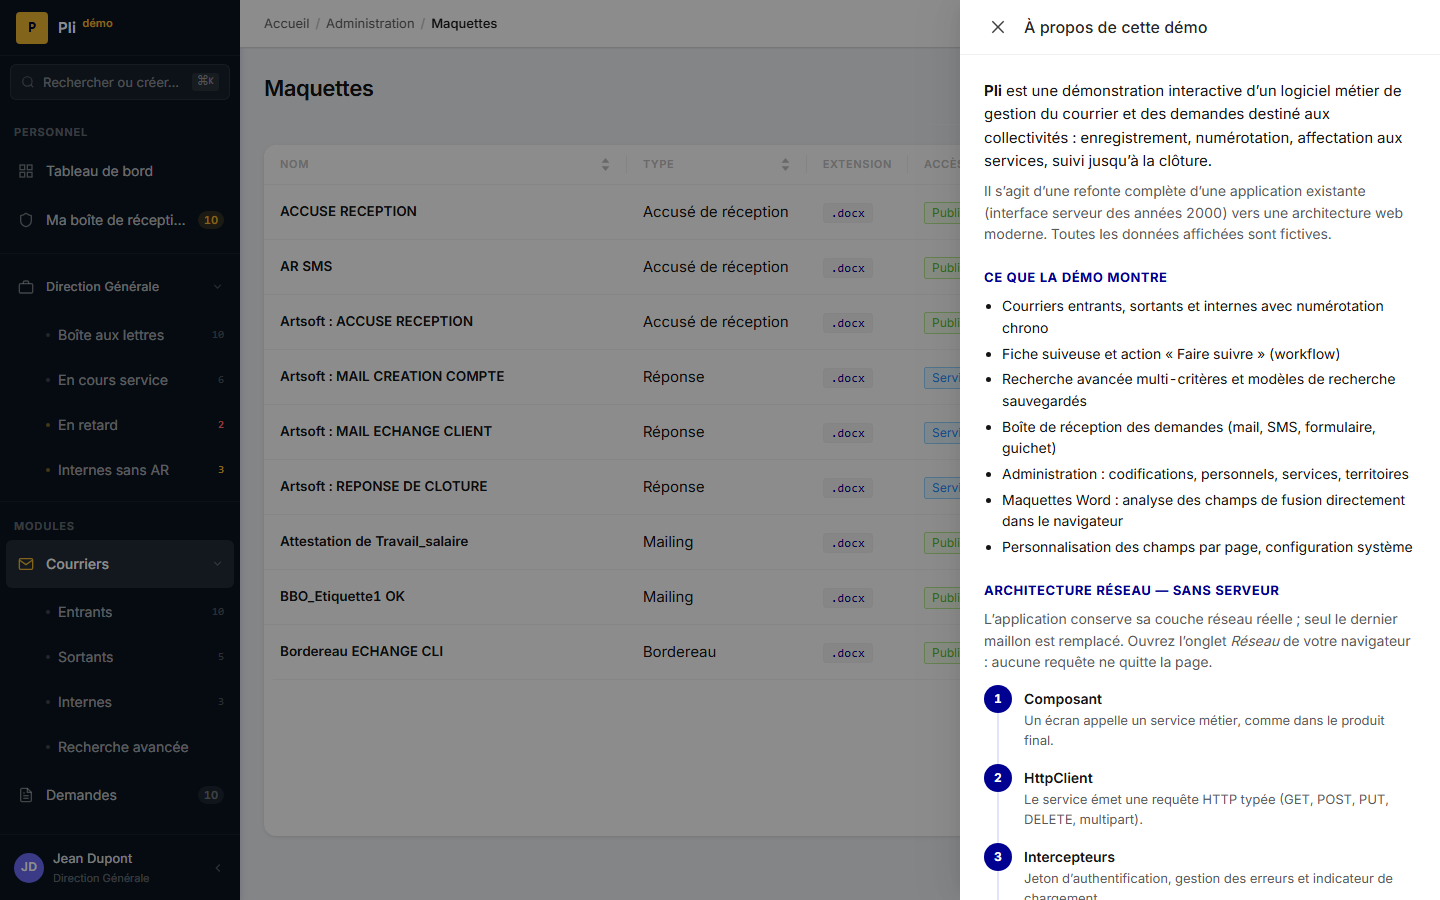
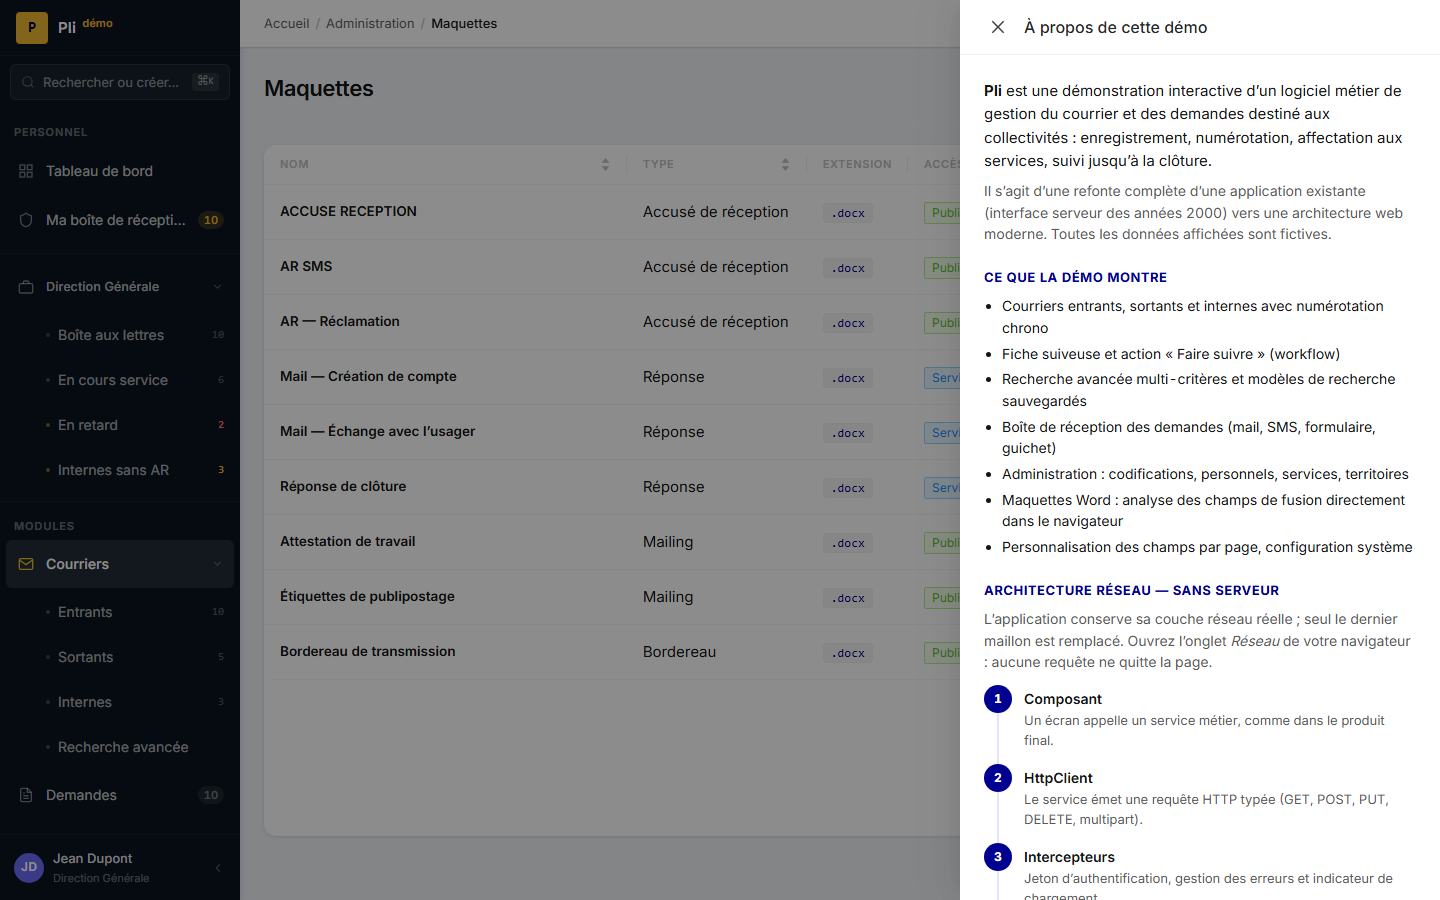
fix: neutralise legacy template names in seed data, refresh screenshots

diff --git a/src/mocks/handlers/administration.handlers.ts b/src/mocks/handlers/administration.handlers.ts
@@ -8,13 +8,13 @@ import { API_BASE as BASE } from '../mock-origin';
 const maquettes = db.collection('maquettes', [
   { id: 1, nom: 'ACCUSE RECEPTION',              type: 'AR',  extension: '.docx', acces: 'PUBLIC',  serviceNom: null, personnelNom: null, fileUrl: `${BASE}/maquettes/1/download` },
   { id: 2, nom: 'AR SMS',                         type: 'AR',  extension: '.docx', acces: 'PUBLIC',  serviceNom: null, personnelNom: null, fileUrl: `${BASE}/maquettes/2/download` },
-  { id: 3, nom: 'Artsoft : ACCUSE RECEPTION',     type: 'AR',  extension: '.docx', acces: 'PUBLIC',  serviceNom: null, personnelNom: null, fileUrl: `${BASE}/maquettes/3/download` },
-  { id: 4, nom: 'Artsoft : MAIL CREATION COMPTE', type: 'REP', extension: '.docx', acces: 'SERVICE', serviceNom: 'Direction de la Demande', personnelNom: null, fileUrl: `${BASE}/maquettes/4/download` },
-  { id: 5, nom: 'Artsoft : MAIL ECHANGE CLIENT',  type: 'REP', extension: '.docx', acces: 'SERVICE', serviceNom: 'Direction de la Demande', personnelNom: null, fileUrl: `${BASE}/maquettes/5/download` },
-  { id: 6, nom: 'Artsoft : REPONSE DE CLOTURE',   type: 'REP', extension: '.docx', acces: 'SERVICE', serviceNom: 'Direction de la Demande', personnelNom: null, fileUrl: `${BASE}/maquettes/6/download` },
-  { id: 7, nom: 'Attestation de Travail_salaire',  type: 'ML',  extension: '.docx', acces: 'PUBLIC',  serviceNom: null, personnelNom: null, fileUrl: `${BASE}/maquettes/7/download` },
-  { id: 8, nom: 'BBO_Etiquette1 OK',               type: 'ML',  extension: '.docx', acces: 'PUBLIC',  serviceNom: null, personnelNom: null, fileUrl: `${BASE}/maquettes/8/download` },
-  { id: 9, nom: 'Bordereau ECHANGE CLI',            type: 'BOR', extension: '.docx', acces: 'PUBLIC',  serviceNom: null, personnelNom: null, fileUrl: `${BASE}/maquettes/9/download` },
+  { id: 3, nom: 'AR — Réclamation',              type: 'AR',  extension: '.docx', acces: 'PUBLIC',  serviceNom: null, personnelNom: null, fileUrl: `${BASE}/maquettes/3/download` },
+  { id: 4, nom: 'Mail — Création de compte',      type: 'REP', extension: '.docx', acces: 'SERVICE', serviceNom: 'Direction de la Demande', personnelNom: null, fileUrl: `${BASE}/maquettes/4/download` },
+  { id: 5, nom: 'Mail — Échange avec l’usager',  type: 'REP', extension: '.docx', acces: 'SERVICE', serviceNom: 'Direction de la Demande', personnelNom: null, fileUrl: `${BASE}/maquettes/5/download` },
+  { id: 6, nom: 'Réponse de clôture',            type: 'REP', extension: '.docx', acces: 'SERVICE', serviceNom: 'Direction de la Demande', personnelNom: null, fileUrl: `${BASE}/maquettes/6/download` },
+  { id: 7, nom: 'Attestation de travail',          type: 'ML',  extension: '.docx', acces: 'PUBLIC',  serviceNom: null, personnelNom: null, fileUrl: `${BASE}/maquettes/7/download` },
+  { id: 8, nom: 'Étiquettes de publipostage',      type: 'ML',  extension: '.docx', acces: 'PUBLIC',  serviceNom: null, personnelNom: null, fileUrl: `${BASE}/maquettes/8/download` },
+  { id: 9, nom: 'Bordereau de transmission',       type: 'BOR', extension: '.docx', acces: 'PUBLIC',  serviceNom: null, personnelNom: null, fileUrl: `${BASE}/maquettes/9/download` },
 ]);
 
 const maintenanceLogs = db.collection('maintenance-logs', [

diff --git a/src/mocks/db.ts b/src/mocks/db.ts
@@ -9,7 +9,7 @@
  */
 const STORAGE_KEY = 'pli_demo_db';
 /** Bump when seed shapes change so stale snapshots are discarded. */
-const SCHEMA_VERSION = 1;
+const SCHEMA_VERSION = 2;
 const PERSIST_DEBOUNCE_MS = 150;
 
 interface Snapshot {
